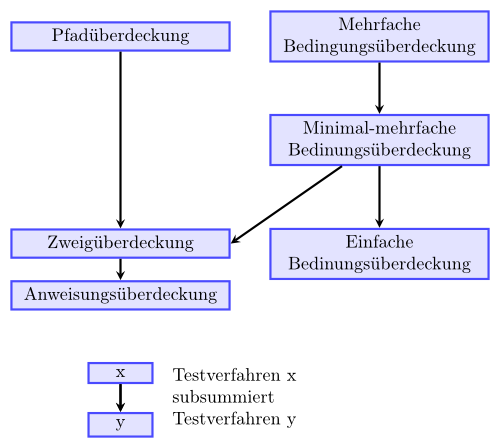
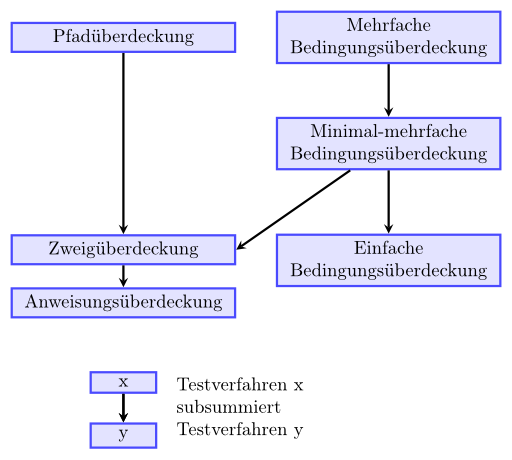
fixed typo

diff --git a/tikz/teststrategien/teststrategien.tex b/tikz/teststrategien/teststrategien.tex
@@ -34,8 +34,8 @@
         \node[textnode, below of=b] (c) {Anweisungsüberdeckung};
 
         \node[textnode, right of=a, node distance=5cm] (d) {Mehrfache\\Bedingungsüberdeckung};
-        \node[textnode, below of=d, node distance=2cm] (e) {Minimal-mehrfache Bedinungsüberdeckung};
-        \node[textnode, below of=e, node distance=2.2cm] (f) {Einfache\\Bedinungsüberdeckung};
+        \node[textnode, below of=d, node distance=2cm] (e) {Minimal-mehrfache Bedingungsüberdeckung};
+        \node[textnode, below of=e, node distance=2.2cm] (f) {Einfache\\Bedingungsüberdeckung};
 
         % Legende
         \node[smallnode, below of=c, node distance=1.5cm] (x) {x};
